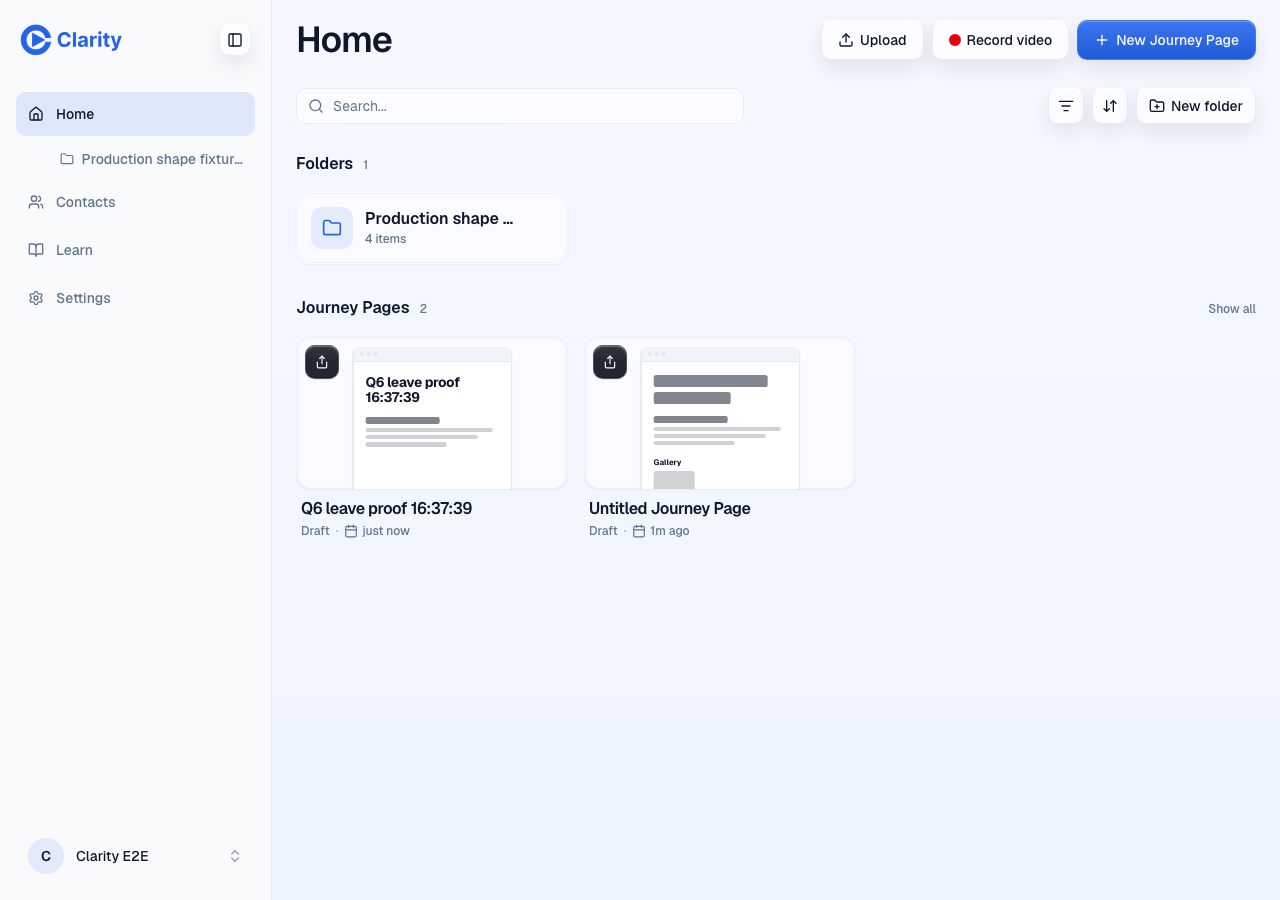
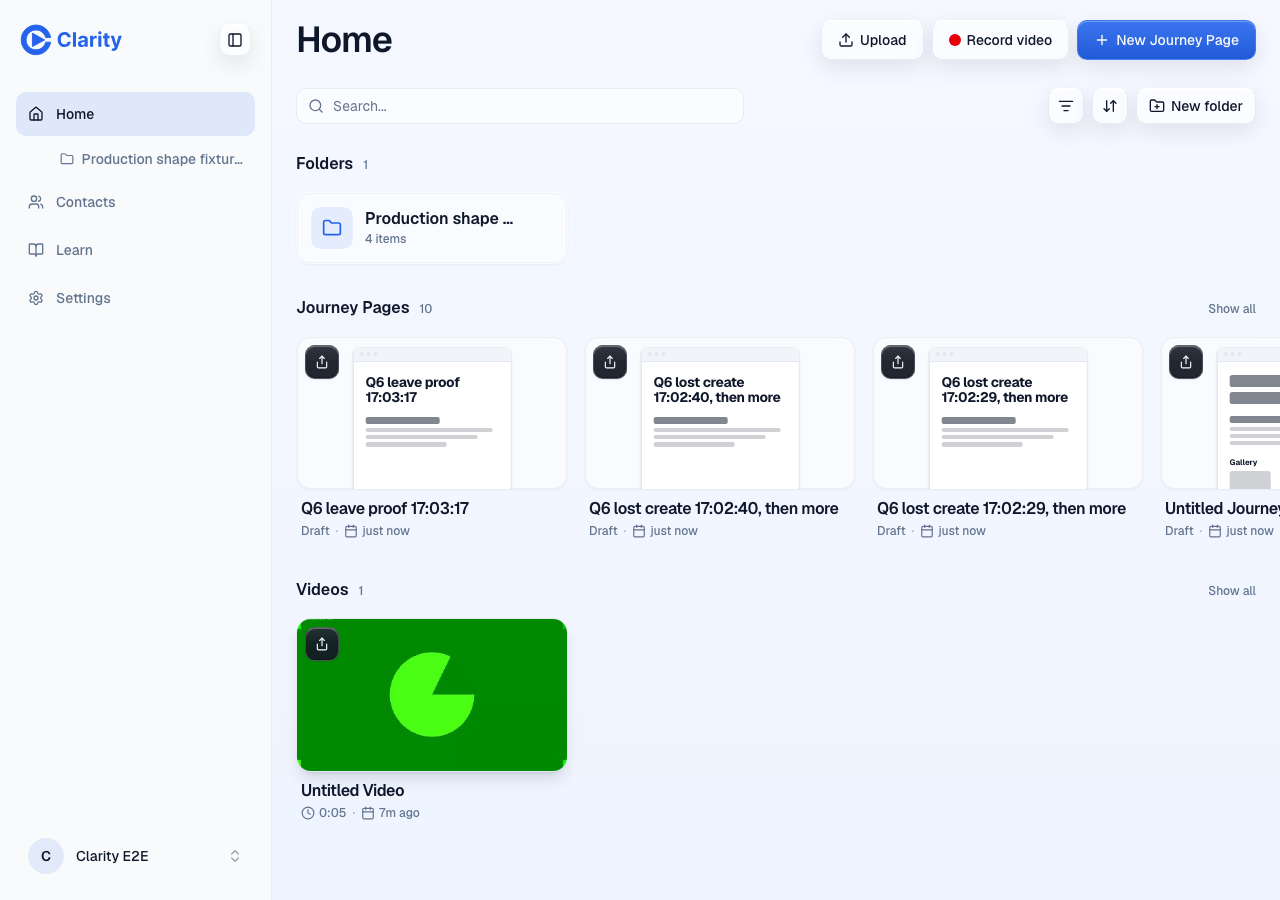
Publish wil-3515-editor-data-loss-proof (20261002T170359Z)

diff --git a/wil-3515-editor-data-loss-proof/index.html b/wil-3515-editor-data-loss-proof/index.html
@@ -13,7 +13,7 @@
 </head>
 <body>
 <h1>WIL-3515 proof: two editor data-loss paths</h1>
-<p>Captured on PR previews with a fresh Chromium, the e2e pro account, and a fake camera. Logs: <a href="recorder/log.txt">recorder</a>, <a href="new-page-before/log.txt">new page before</a>, <a href="new-page-after/log.txt">new page after</a>.</p>
+<p>Captured on PR previews with a fresh Chromium, the e2e pro account, and a fake camera. Logs: <a href="recorder/log.txt">recorder</a>, <a href="new-page-before/log.txt">new page before</a>, <a href="new-page-after/log.txt">new page after</a>, <a href="lost-create-stay-before/log.txt">lost create before</a>, <a href="lost-create-stay-after/log.txt">lost create after (stay)</a>, <a href="lost-create-leave-after/log.txt">lost create after (leave)</a>.</p>
 
 <h2>1. Recorder: a refused trim save keeps the rep on the recorder (PR #969, head 381b393b5)</h2>
 <p>The trim save <code>POST /api/tree/media/videos/:id/edit</code> was forced to answer 404 in the browser. Before this change, Open page awaited a flush that resolved as saved and navigated; the route test shows it landing on <code>/edit/page-1</code>.</p>
@@ -22,11 +22,16 @@
 <figure><img src="recorder/04-retry-saved.png" alt=""><figcaption>With the refusal lifted, Try again saves (202) and the row clears.</figcaption></figure>
 <figure><img src="recorder/05-opened-page.png" alt=""><figcaption>Open page now opens the take's page; its video shows the trimmed 0:02.</figcaption></figure>
 
-<h2>2. A new page's first edit survives leaving (PR #973, head 2571f0b85)</h2>
+<h2>2. A new page's first edit survives leaving (PR #973, head 310a94c89)</h2>
 <p>Typed a title on <code>/new</code>, then clicked Home in the sidebar about 130 ms later, inside the 900 ms autosave debounce.</p>
 <figure><img src="new-page-before/01-after-leaving.png" alt=""><figcaption>Before (PR #969's preview, main's document store): no create request, no page. The edit is gone.</figcaption></figure>
 <figure><img src="new-page-after/01-after-leaving.png" alt=""><figcaption>After: the leave creates the page (<code>POST /api/journey-pages</code> 201) and the rep stays on Home.</figcaption></figure>
 <figure><img src="new-page-after/02-returned.png" alt=""><figcaption>Returning to the page shows the title typed before leaving.</figcaption></figure>
 <p>Hiding the tab 17 ms after an edit on <code>/edit/:id</code> sent the <code>PUT</code> at once (200), well inside the 900 ms debounce; the stored draft carried the edit. The hide was simulated by overriding <code>document.visibilityState</code> and dispatching <code>visibilitychange</code>.</p>
+<h2>3. A create whose answer was lost does not make a second page (PR #973, head 310a94c89)</h2>
+<p>The first autosave's <code>POST /api/journey-pages</code> reached the router and committed (201), but the page told the editor the connection dropped. The rep then typed more.</p>
+<figure><img src="lost-create-stay-before/02-library.png" alt=""><figcaption>Before (main's code on PR #969's preview): the next autosave sent a second create with no id, and the router made a second page (<a href="lost-create-stay-before/log.txt">log</a>: pages created 2).</figcaption></figure>
+<figure><img src="lost-create-stay-after/02-library.png" alt=""><figcaption>After, staying on the page: the retry carried the same editor-minted id, the router refused it as <code>already_created</code> (409), and the editor saved over that page with <code>PUT</code> (200). One page, at revision 2, holding the latest title (<a href="lost-create-stay-after/log.txt">log</a>).</figcaption></figure>
+<figure><img src="lost-create-leave-after/02-library.png" alt=""><figcaption>After, leaving at once: the leave drain did the same, the rep stayed on Home, and the one page holds the latest title (<a href="lost-create-leave-after/log.txt">log</a>).</figcaption></figure>
 </body>
 </html>

diff --git a/index.html b/index.html
@@ -1,6 +1,7 @@
 <!doctype html><meta charset="utf-8"><title>Clarity design previews</title>
 <style>body{font-family:system-ui,sans-serif;max-width:40rem;margin:4rem auto;padding:0 1rem;color:#0f172a}a{color:#2563eb}li{margin:.4rem 0}</style>
 <h1>Clarity design previews</h1>
+<li><a href="./wil-3515-editor-data-loss-proof/">WIL-3515 proof: editor data loss</a> <small>20261002T170359Z</small></li>
 <li><a href="./wil-3515-editor-data-loss-proof/">WIL-3515 proof: editor data loss</a> <small>20261002T164218Z</small></li>
 <li><a href="./multitrack-design-2026-10/">Multi-track recording, restyled after recording: design</a> <small>20261002T160720Z</small></li>
 <li><a href="./architecture-audit-2026-10-02-ownership/">Architecture audit, 2 Oct 2026: make one place own (parallel run)</a> <small>20261002T155935Z</small></li>
